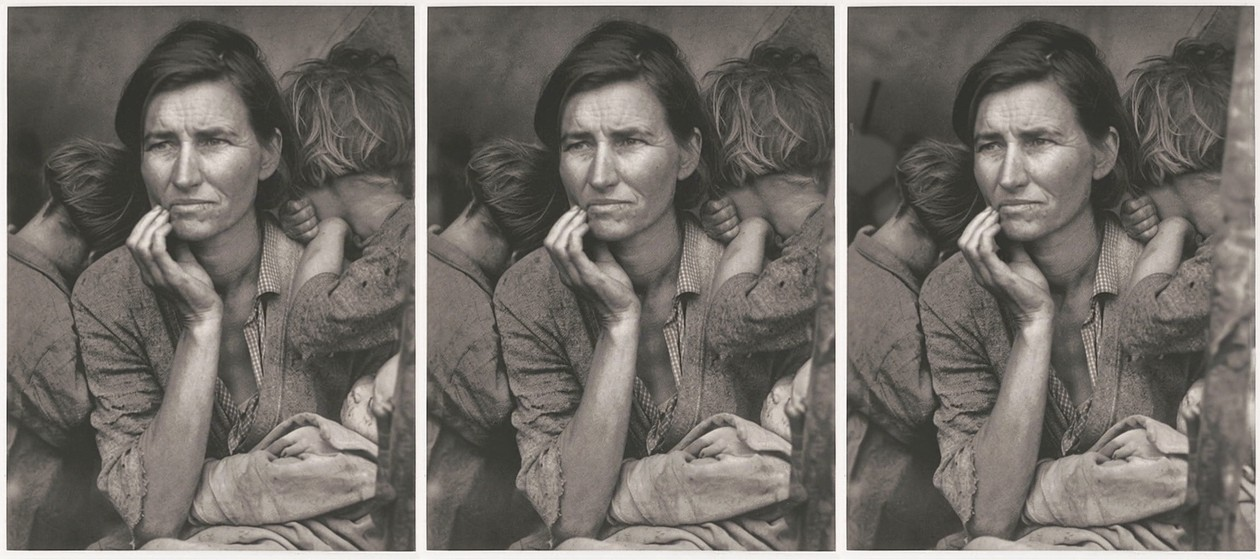
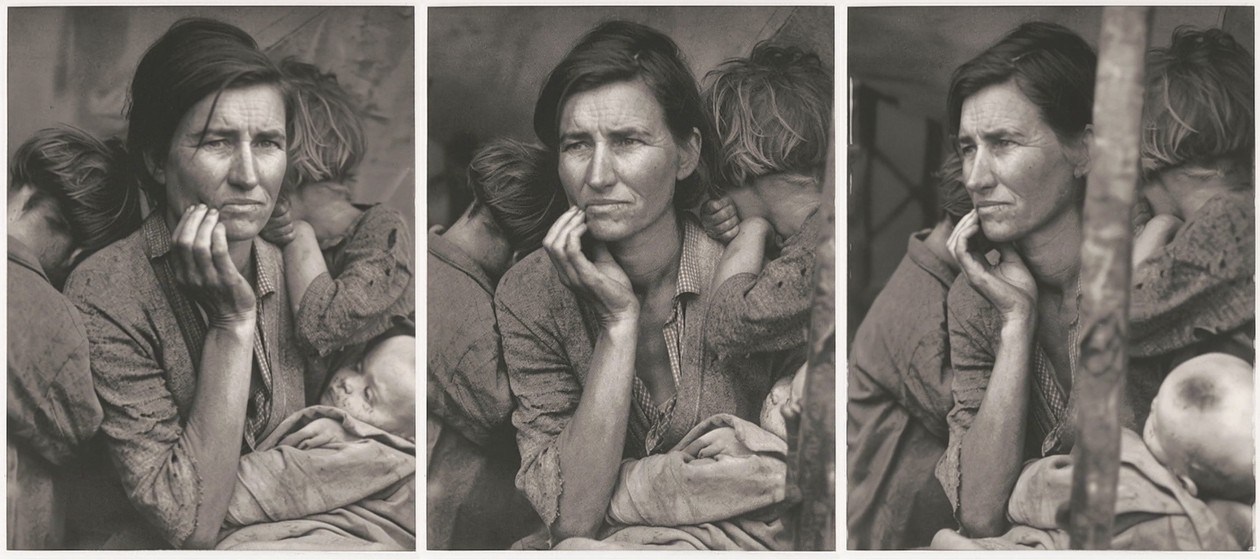
Orthoscopic 40-degree default; balance orbit sides by measured yaw
- Default sweep is now 40 degrees, the Portrait's calibrated view cone,
  so the scene turns exactly as far as the viewer's eye moves.
- side_balance: measure the real camera yaw on a few frames either side
  of the photo (essential matrix on moving features) and rescale each
  half of the timed orbit so both sides turn equally fast. The overall
  scale stays with the constant-speed timing, so the unknown focal
  length cancels. Skipped unless both sides give consistent samples of
  a camera that actually turns.
- README demo images regenerated at 40 degrees.

diff --git a/src/holoforge/views.py b/src/holoforge/views.py
@@ -61,6 +61,8 @@ class ViewPlan:
     requested: float
     direction_score: float = 0.0
     warnings: list[str] = field(default_factory=list)
+    # Speed-up applied to the (leaving, returning) halves so both sides turn equally.
+    side_scales: tuple[float, float] = (1.0, 1.0)
 
 
 def _gray(image: Image.Image, width: int = ANALYSIS_WIDTH) -> np.ndarray:
@@ -153,11 +155,20 @@ class ViewpointSide:
 
     def measure(self, frame: Image.Image) -> tuple[float, int]:
         """(-1..1 camera-left amount, inlier count); (0, 0) when undetermined."""
+        side, _, inliers = self.measure_pose(frame)
+        return side, inliers
+
+    def measure_pose(self, frame: Image.Image) -> tuple[float, float, int]:
+        """(camera-left amount, yaw in degrees, inlier count); zeros when undetermined.
+
+        The yaw's scale depends on the assumed focal length, so only ratios of yaws measured
+        from the same reference are meaningful.
+        """
         if self.descriptors is None:
-            return 0.0, 0
+            return 0.0, 0.0, 0
         keypoints, descriptors = self.sift.detectAndCompute(_gray(frame, 640), None)
         if descriptors is None or len(keypoints) < 8:
-            return 0.0, 0
+            return 0.0, 0.0, 0
         pairs = self.matcher.knnMatch(self.descriptors, descriptors, k=2)
         good = [p[0] for p in pairs if len(p) == 2 and p[0].distance < 0.75 * p[1].distance]
         p0 = np.float32([self.keypoints[m.queryIdx].pt for m in good]).reshape(-1, 2)
@@ -165,17 +176,54 @@ class ViewpointSide:
         moved = np.linalg.norm(p1 - p0, axis=1) > 1.0
         p0, p1 = p0[moved], p1[moved]
         if len(p0) < 30:
-            return 0.0, 0
+            return 0.0, 0.0, 0
         essential, mask = cv2.findEssentialMat(p0, p1, self.camera, cv2.RANSAC, 0.999, 1.0)
         if essential is None or essential.shape != (3, 3):
-            return 0.0, 0
+            return 0.0, 0.0, 0
         inliers, rotation, translation, _ = cv2.recoverPose(
             essential, p0, p1, self.camera, mask=mask
         )
         if inliers < 30:
-            return 0.0, 0
+            return 0.0, 0.0, 0
         centre = (-rotation.T @ translation).ravel()
-        return float(-centre[0]), int(inliers)
+        yaw = float(np.degrees(np.arctan2(rotation[2, 0], rotation[2, 2])))
+        return float(-centre[0]), yaw, int(inliers)
+
+
+def side_balance(
+    frames: list[Image.Image], angles: np.ndarray, *, low: float = 3.0, high: float = 14.0
+) -> tuple[float, float]:
+    """Scale factors that make the two halves of an orbit turn equally fast near the photo.
+
+    The timed angles assume one constant-speed circle, but H3 may swing faster on one side.
+    The real yaw of a few frames on each side, measured from the photographed frame within
+    the range where matching is reliable, is compared with the timed angle there. Each side
+    is scaled to the mean of the two rates, which keeps the overall (timed) scale and so
+    does not depend on the unknown focal length. Returns (1, 1) unless both sides resolve.
+    """
+    meter = ViewpointSide(frames[0])
+    half = len(frames) // 2
+    rates: list[float] = []
+    for indices in (range(1, half), range(len(frames) - 1, half - 1, -1)):
+        picked = [i for i in indices if low <= abs(angles[i]) <= high]
+        if len(picked) > 7:
+            picked = [picked[round(k * (len(picked) - 1) / 6)] for k in range(7)]
+        ratios = []
+        for i in picked:
+            _, yaw, inliers = meter.measure_pose(frames[i])
+            if inliers:
+                ratios.append(abs(yaw) / abs(angles[i]))
+        # Only trust a side whose samples agree, and whose camera actually turns (a clip that
+        # slides the camera sideways has almost no yaw, and the ratio is then just noise).
+        if len(ratios) < 3:
+            return 1.0, 1.0
+        rate = float(np.median(ratios))
+        spread = float(np.median(np.abs(np.asarray(ratios) - rate))) / max(rate, 1e-9)
+        if not 0.2 <= rate <= 5.0 or spread > 0.35:
+            return 1.0, 1.0
+        rates.append(rate)
+    mean = (rates[0] + rates[1]) / 2
+    return tuple(float(np.clip(r / mean, 0.75, 1.33)) for r in rates)  # type: ignore[return-value]
 
 
 def direction_score(frames: list[Image.Image], angles: np.ndarray) -> float:
@@ -248,6 +296,13 @@ def plan_views(
         raise ValueError("An orbit needs at least three frames")
     steps = motion_steps(frames)
     angles = progress_angles(paced_steps(steps) if constant_speed else steps, motion)
+    balance = (1.0, 1.0)
+    if constant_speed:
+        balance = side_balance(frames, angles)
+        half_index = len(frames) // 2
+        angles = angles.copy()
+        angles[:half_index] *= balance[0]
+        angles[half_index:] *= balance[1]
     score = direction_score(frames, angles)
     sign = 1.0 if score >= 0 else -1.0
     warnings: list[str] = []
@@ -289,7 +344,7 @@ def plan_views(
         elif abs(b.angle - target) <= 0.15 * spacing:
             a, weight = b, 0.0
         sources.append(ViewSource(a.frame, b.frame, float(weight), float(target)))
-    return ViewPlan(sources, samples, (lo, hi), sweep_degrees, score, warnings)
+    return ViewPlan(sources, samples, (lo, hi), sweep_degrees, score, warnings, balance)
 
 
 def flow_blend(a: Image.Image, b: Image.Image, weight: float) -> Image.Image:

diff --git a/src/holoforge/config.py b/src/holoforge/config.py
@@ -35,9 +35,10 @@ class OrbitConfig:
     """Settings for the MiniMax H3 orbit method (see orbit.py and views.py)."""
 
     preset: Preset = PRESETS["portrait"]
-    # Total orbit angle spanned from the leftmost to the rightmost view. The Portrait's
-    # optical view cone is 40 degrees; a little less keeps backgrounds from smearing.
-    sweep_degrees: float = 30.0
+    # Total orbit angle spanned from the leftmost to the rightmost view. Matching the display's
+    # view cone (40 degrees on the Portrait, from its calibration) is orthoscopic: the scene
+    # turns exactly as far as the viewer's eye moves.
+    sweep_degrees: float = 40.0
     # Re-render once with camera-insistent wording when H3 makes a turntable clip (subjects
     # rotate in front of a frozen background); keep whichever clip has more real parallax.
     flat_retry: bool = True

diff --git a/src/holoforge/cli.py b/src/holoforge/cli.py
@@ -42,7 +42,7 @@ def build_parser() -> argparse.ArgumentParser:
 
     orbit = parser.add_argument_group("H3 orbit")
     orbit.add_argument("--motion", choices=MOTION_PROMPTS, default="orbit")
-    orbit.add_argument("--sweep", type=float, help="Degrees of orbit across the quilt (default 30)")
+    orbit.add_argument("--sweep", type=float, help="Degrees of orbit across the quilt (default 40, the Portrait's view cone)")
     orbit.add_argument("--subject", default=None, help="Who/what is in the photo, for the prompt")
     orbit.add_argument("--style", default=None, help="e.g. 'Vintage film photograph'")
     orbit.add_argument(

diff --git a/src/holoforge/app.py b/src/holoforge/app.py
@@ -159,7 +159,12 @@ def build_ui() -> gr.Blocks:
                 )
                 with gr.Group():
                     sweep = gr.Slider(
-                        10, 40, value=30, step=1, label="3D strength (degrees of orbit)"
+                        10,
+                        50,
+                        value=40,
+                        step=1,
+                        label="3D strength (degrees of orbit)",
+                        info="40 matches the Portrait's view cone (true depth)",
                     )
                     use_lora = gr.Checkbox(
                         value=True,

diff --git a/src/holoforge/orbit_pipeline.py b/src/holoforge/orbit_pipeline.py
@@ -232,6 +232,7 @@ class OrbitPipeline:
                 "background_stillness": stillness,
                 "angle_span_degrees": plan.span,
                 "direction_score": plan.direction_score,
+                "side_scales": plan.side_scales,
                 "samples": [asdict(s) for s in plan.samples],
                 "views": [asdict(s) for s in plan.sources],
                 "warnings": plan.warnings,

diff --git a/README.md b/README.md
@@ -15,7 +15,7 @@ This is an early working prototype, not an official Looking Glass Factory produc
 
 ![Leftmost, centre and rightmost quilt views](assets/demo/migrant_mother_orbit_views.jpg)
 
-*Leftmost, centre and rightmost quilt views (±15°): her head turns, the children shift, and
+*Leftmost, centre and rightmost quilt views: her head turns, the children shift, and
 the tent pole on the right moves against the background with real parallax.*
 
 Demo: Dorothea Lange, *Migrant mother and children – California* (1936), cropped from the
@@ -31,11 +31,15 @@ viewpoint is generated by H3: an interpretation, not historical evidence.
    and its training caption turn that into one continuous camera orbit around a scene frozen
    like a statue: "Only the camera moves." The frames just after the start and just before
    the end show the scene from either side of the original viewpoint.
-2. 48 views are placed at evenly spaced viewing angles over `--sweep` degrees (default 30)
-   either side of the photograph. Where no frame lands close enough to a target angle, the
-   two neighbouring frames are blended along their optical flow. An essential matrix fitted
-   to the moving features decides which side the clip leaves towards, so the quilt runs from
-   the leftmost view, as Looking Glass expects.
+2. 48 views are placed at evenly spaced viewing angles over `--sweep` degrees, by default 40°:
+   the Portrait's own view cone (from its calibration file), so the hologram is orthoscopic
+   and the scene turns exactly as far as your eye moves. The LoRA orbits at constant speed,
+   so angles come from how far round its circle the camera has travelled (pauses at either
+   end count as zero). The real camera yaw is then measured near the photo on both sides,
+   from an essential matrix fitted to the moving features, and each side is rescaled so the
+   two turn equally fast. The same fit decides which side the clip leaves towards, so the
+   quilt runs from the leftmost view. Where no frame lands close enough to a target angle,
+   the two neighbouring frames are blended along their optical flow.
 3. If H3 turns the subjects on a turntable in front of a frozen background instead of moving
    the camera, which plays back with a flat background, the clip is detected and re-rendered
    once with a new seed.
@@ -98,7 +102,7 @@ is also added to the device's playlist.
 ```powershell
 uv run holoforge "photo.jpg"                     # quilt in outputs\photo\
 uv run holoforge "D:\Photos\Birthday" --push     # a whole folder, added to the Portrait
-uv run holoforge "photo.jpg" --sweep 20          # gentler 3D; --sweep 36 for stronger
+uv run holoforge "photo.jpg" --sweep 30          # gentler than orthoscopic 3D
 uv run holoforge "photo.jpg" --preset lg16       # other Looking Glass displays
 ```
 
@@ -157,7 +161,7 @@ rewrites the playlist from Studio's own library and may drop these items.
 ## Honest limits
 
 One photograph doesn't contain the far side of anyone. H3 invents everything beyond the
-photographed viewpoint; the quilt only uses ±15° of the orbit by default, where the invention
+photographed viewpoint; the quilt only uses ±20° of the orbit by default, where the invention
 is modest and the real photo dominates, but expressions can still shift slightly and hidden
 detail is an interpretation. For irreplaceable family photographs, keep the original and
 check the parallax preview before sharing.
